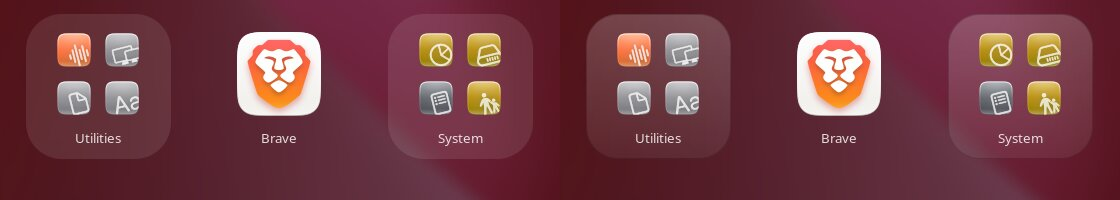
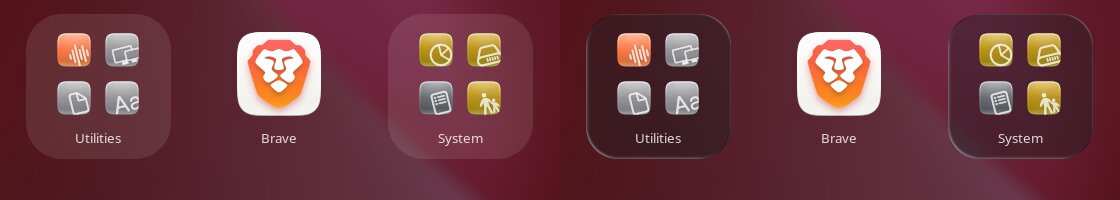
App grid folder tiles in real Liquid Glass
The user saw no Liquid Glass on the CSS-only folder tiles. They are now
popup glass targets in the patch ('app-folder', full box, the calendar's
32 px), like the folder popup:
- looked for each time the overview opens (they live deep in it)
- their glass in the overview's own layer, under its content
- placed again on every scroll step of the grid's pages (the scroll is a
  paint-time transform no signal reports; the glass stayed behind)
CSS: the tile's fill off, the 1 px edge, hover and press lifts.

Headless: stills of the grid, the overview opening and closing, a page
flip and back; stress app folder x20 p95 11.0 -> 10.4 ms, nothing stuck.

Changed region(s): [[0.8438, 0.06, 1.0, 0.81], [0.5, 0.06, 0.6562, 0.81]]

diff --git a/config/gnome-shell-overrides.css b/config/gnome-shell-overrides.css
@@ -267,25 +267,15 @@
   margin-bottom: 112px !important;
 }
 .osd-window .level { -barlevel-height: 6px; -barlevel-active-background-color: white; border-radius: {{capsule.radius}}px !important; }
-/* A3: folder tiles in the app grid, the same glass as the folder popup they open into: a glass
-   look in CSS over the overview's blur, at the popup's {{folder.radius}} px. The grid always sits on
-   the blurred wallpaper, so one recipe for every mode: lit from the top (a white gradient), a
-   bright rim, a crisp top highlight and a soft lift. Real glass per tile is left out: 20 and more
-   on screen. */
+/* A3: folder tiles in the app grid: real Liquid Glass, the glass of the folder popup they open
+   into (Blur My Shell popup glass, 'app-folder' in the patch), at {{folder.radius}} px. No fill of
+   their own; the 1 px edge of the bar and dock; hover and press a lift on the glass. */
 .app-folder {
-  background-gradient-direction: vertical !important;
-  background-gradient-start: rgba(255, 255, 255, 0.20) !important;
-  background-gradient-end: rgba(255, 255, 255, 0.07) !important;
+  background-color: transparent !important;
   border-radius: {{folder.radius}}px !important;
-  box-shadow: inset 0 0 0 1px rgba(255, 255, 255, 0.22), inset 0 1px 0 0 rgba(255, 255, 255, 0.35), 0 4px 12px 0 rgba(0, 0, 0, 0.20) !important;
+  box-shadow: inset 0 0 0 1px {{mode.edge}} !important;
 }
-.app-folder:hover, .app-folder:focus {
-  background-gradient-start: rgba(255, 255, 255, 0.28) !important;
-  background-gradient-end: rgba(255, 255, 255, 0.12) !important;
-}
-.app-folder:active, .app-folder:highlighted, .app-folder:selected, .app-folder:checked {
-  background-gradient-start: rgba(255, 255, 255, 0.34) !important;
-  background-gradient-end: rgba(255, 255, 255, 0.18) !important;
-}
-.app-folder:insensitive { background-gradient-direction: none !important; background-color: transparent !important; box-shadow: none !important; }
+.app-folder:hover, .app-folder:focus { background-color: {{mode.hover}} !important; }
+.app-folder:active, .app-folder:highlighted, .app-folder:selected, .app-folder:checked { background-color: {{mode.pressed}} !important; }
+.app-folder:insensitive { background-color: transparent !important; box-shadow: none !important; }
 /* end tahoe-overrides */

diff --git a/tools/headless/tahoe-motion-test@local/survey.js b/tools/headless/tahoe-motion-test@local/survey.js
@@ -75,7 +75,39 @@ export async function runSurvey(write) {
     await sleep(1500);
     // TAHOE_SURVEY_GRID=1: only the app grid (GNOME's own dash: run without dash-to-dock)
     if (GLib.getenv('TAHOE_SURVEY_GRID') === '1') {
+        if (GLib.getenv('TAHOE_SURVEY_GRID_MOTION') === '1') {
+            // the glass under folder tiles while the overview opens, a page flips and it closes
+            const St = (await import('gi://St')).default;
+            const settings = St.Settings.get();
+            settings.slow_down_factor = 6;
+            Main.overview.showApps();
+            for (let i = 0; i < 6; i++) {
+                await sleep(110 * 6 / 6 * 1.5);
+                await shot(`grid-open-${i}`);
+            }
+            await sleep(2500);
+            const display = Main.overview._overview?.controls?._appDisplay;
+            display?.goToPage?.(1);
+            for (let i = 0; i < 5; i++) {
+                await sleep(150);
+                await shot(`grid-page-${i}`);
+            }
+            await sleep(2500);
+            display?.goToPage?.(0);
+            await sleep(2500);
+            await shot('grid-back');
+            Main.overview.hide();
+            for (let i = 0; i < 5; i++) {
+                await sleep(150);
+                await shot(`grid-close-${i}`);
+            }
+            settings.slow_down_factor = 1;
+            await sleep(2000);
+            await shot('grid-after');
+            return;
+        }
         await step('grid', () => Main.overview.showApps(), 2500);
+        write({ survey: 'grid-glass', debug: globalThis.__tahoeGlass?.debug?.() });
         await step('grid-folder', () => {
             const folder = Main.overview._overview?.controls?._appDisplay?._folderIcons?.[0];
             folder?.open();

diff --git a/docs/gnome-tahoe/glass-everywhere-workshop.md b/docs/gnome-tahoe/glass-everywhere-workshop.md
@@ -126,7 +126,7 @@ done, and its effort and risk. The mechanisms are:
 | C3 | Alt-Tab, workspace switcher | glass and CSS both 28 (the glass was 28 under a 24 shape), items 20, selected a glass lift instead of the accent | `shots/phase1-alt-tab.jpg` |
 | C5 | Run dialog field | a large glass capsule, no accent ring (the ring came from Blur My Shell's own popup styles, which outrank the theme; fixed in the patch's styles for this field only, so password fields keep their focus ring) | `shots/phase1-run.jpg` |
 | C7 | Screenshot toolbar | mode and pointer buttons as glass chips; the photo/video switch keeps Blur My Shell's segmented look | `shots/phase1-screenshot.jpg` |
-| A3 | Folder tiles in the app grid (user asked, 2026-10-20) | glass look in CSS at the folder popup's 32 px: lit from the top (white gradient 0.20 → 0.07), rim, top highlight, soft lift; one recipe for every mode, since the grid always sits on the blurred wallpaper | `shots/phase1-folder-tiles.jpg` |
+| A3 | Folder tiles in the app grid (user asked, 2026-10-20) | real Liquid Glass, the folder popup's glass (popup glass target `app-folder` in the patch, 32 px, the tile's fill off, the 1 px edge). A CSS imitation came first; the user wanted the real thing, and there is only one glass per folder. The glass lives in the overview's own layer under its content; the grid turns pages by scrolling, so the tiles' glass is placed again on every scroll step (it stayed behind otherwise). Stress: app folder ×20 p95 11.0 → 10.4 ms | `shots/phase1-folder-tiles.jpg` |
 | C1 | Volume / brightness OSD | a glass capsule (glass 9999, it was 48 under a 24 shape), lifted clear of the dock, white level bar; kept at the bottom (top right under the bar is a later choice) | `shots/phase1-osd.jpg` |
 
 Tokens: `switcher`, `osd`, `folder` radii and their Blur My Shell keys in `tokens/radius.json`, `chip` and `chip_text` in `tokens/glass.json`; `docs/STANDARD.md` lists the new surfaces.

diff --git a/docs/STANDARD.md b/docs/STANDARD.md
@@ -41,7 +41,7 @@ keys are written from it. Tint, rim light and edge shadow come from `glass_param
 | App windows and header bars | **24** | | buttons pill | `applications corner-radius` 24 | theme `window.csd` 24, Rounded Window Corners 24 |
 | Desktop widgets | **24** | 16 to 18 | | widgets extension `RADIUS` 24 | `.tahoe-widget` 24 |
 | App folder popup (overview) | **32** | | | appfolder pipeline `pipeline_glassbar_menus`; radius read from the CSS | `.app-folder-dialog` 32, no fill |
-| App folder tiles (app grid) | **32** (as the popup) | | | none: glass look in CSS over the overview's blur | `.app-folder` gradient, rim, highlight, lift |
+| App folder tiles (app grid) | **32** (as the popup), real glass | | | popup glass (`app-folder`, patch), the calendar's radius key | `.app-folder` 32, no fill, 1 px edge |
 | Alt-Tab and workspace switcher | **28** | 8 | items **20** | `popup osd-corner-radius` 28 | `.switcher-list` 28, `.item-box` 20 |
 | Volume / brightness OSD | capsule | | | `popup osd-window-corner-radius` 9999 | `.osd-window` 9999, lifted 112 px over the dock |
 | Dock app names (hover) | capsule, real glass | | | popup glass (`dash-label`, patch) | `.dash-label` 9999, no fill |
